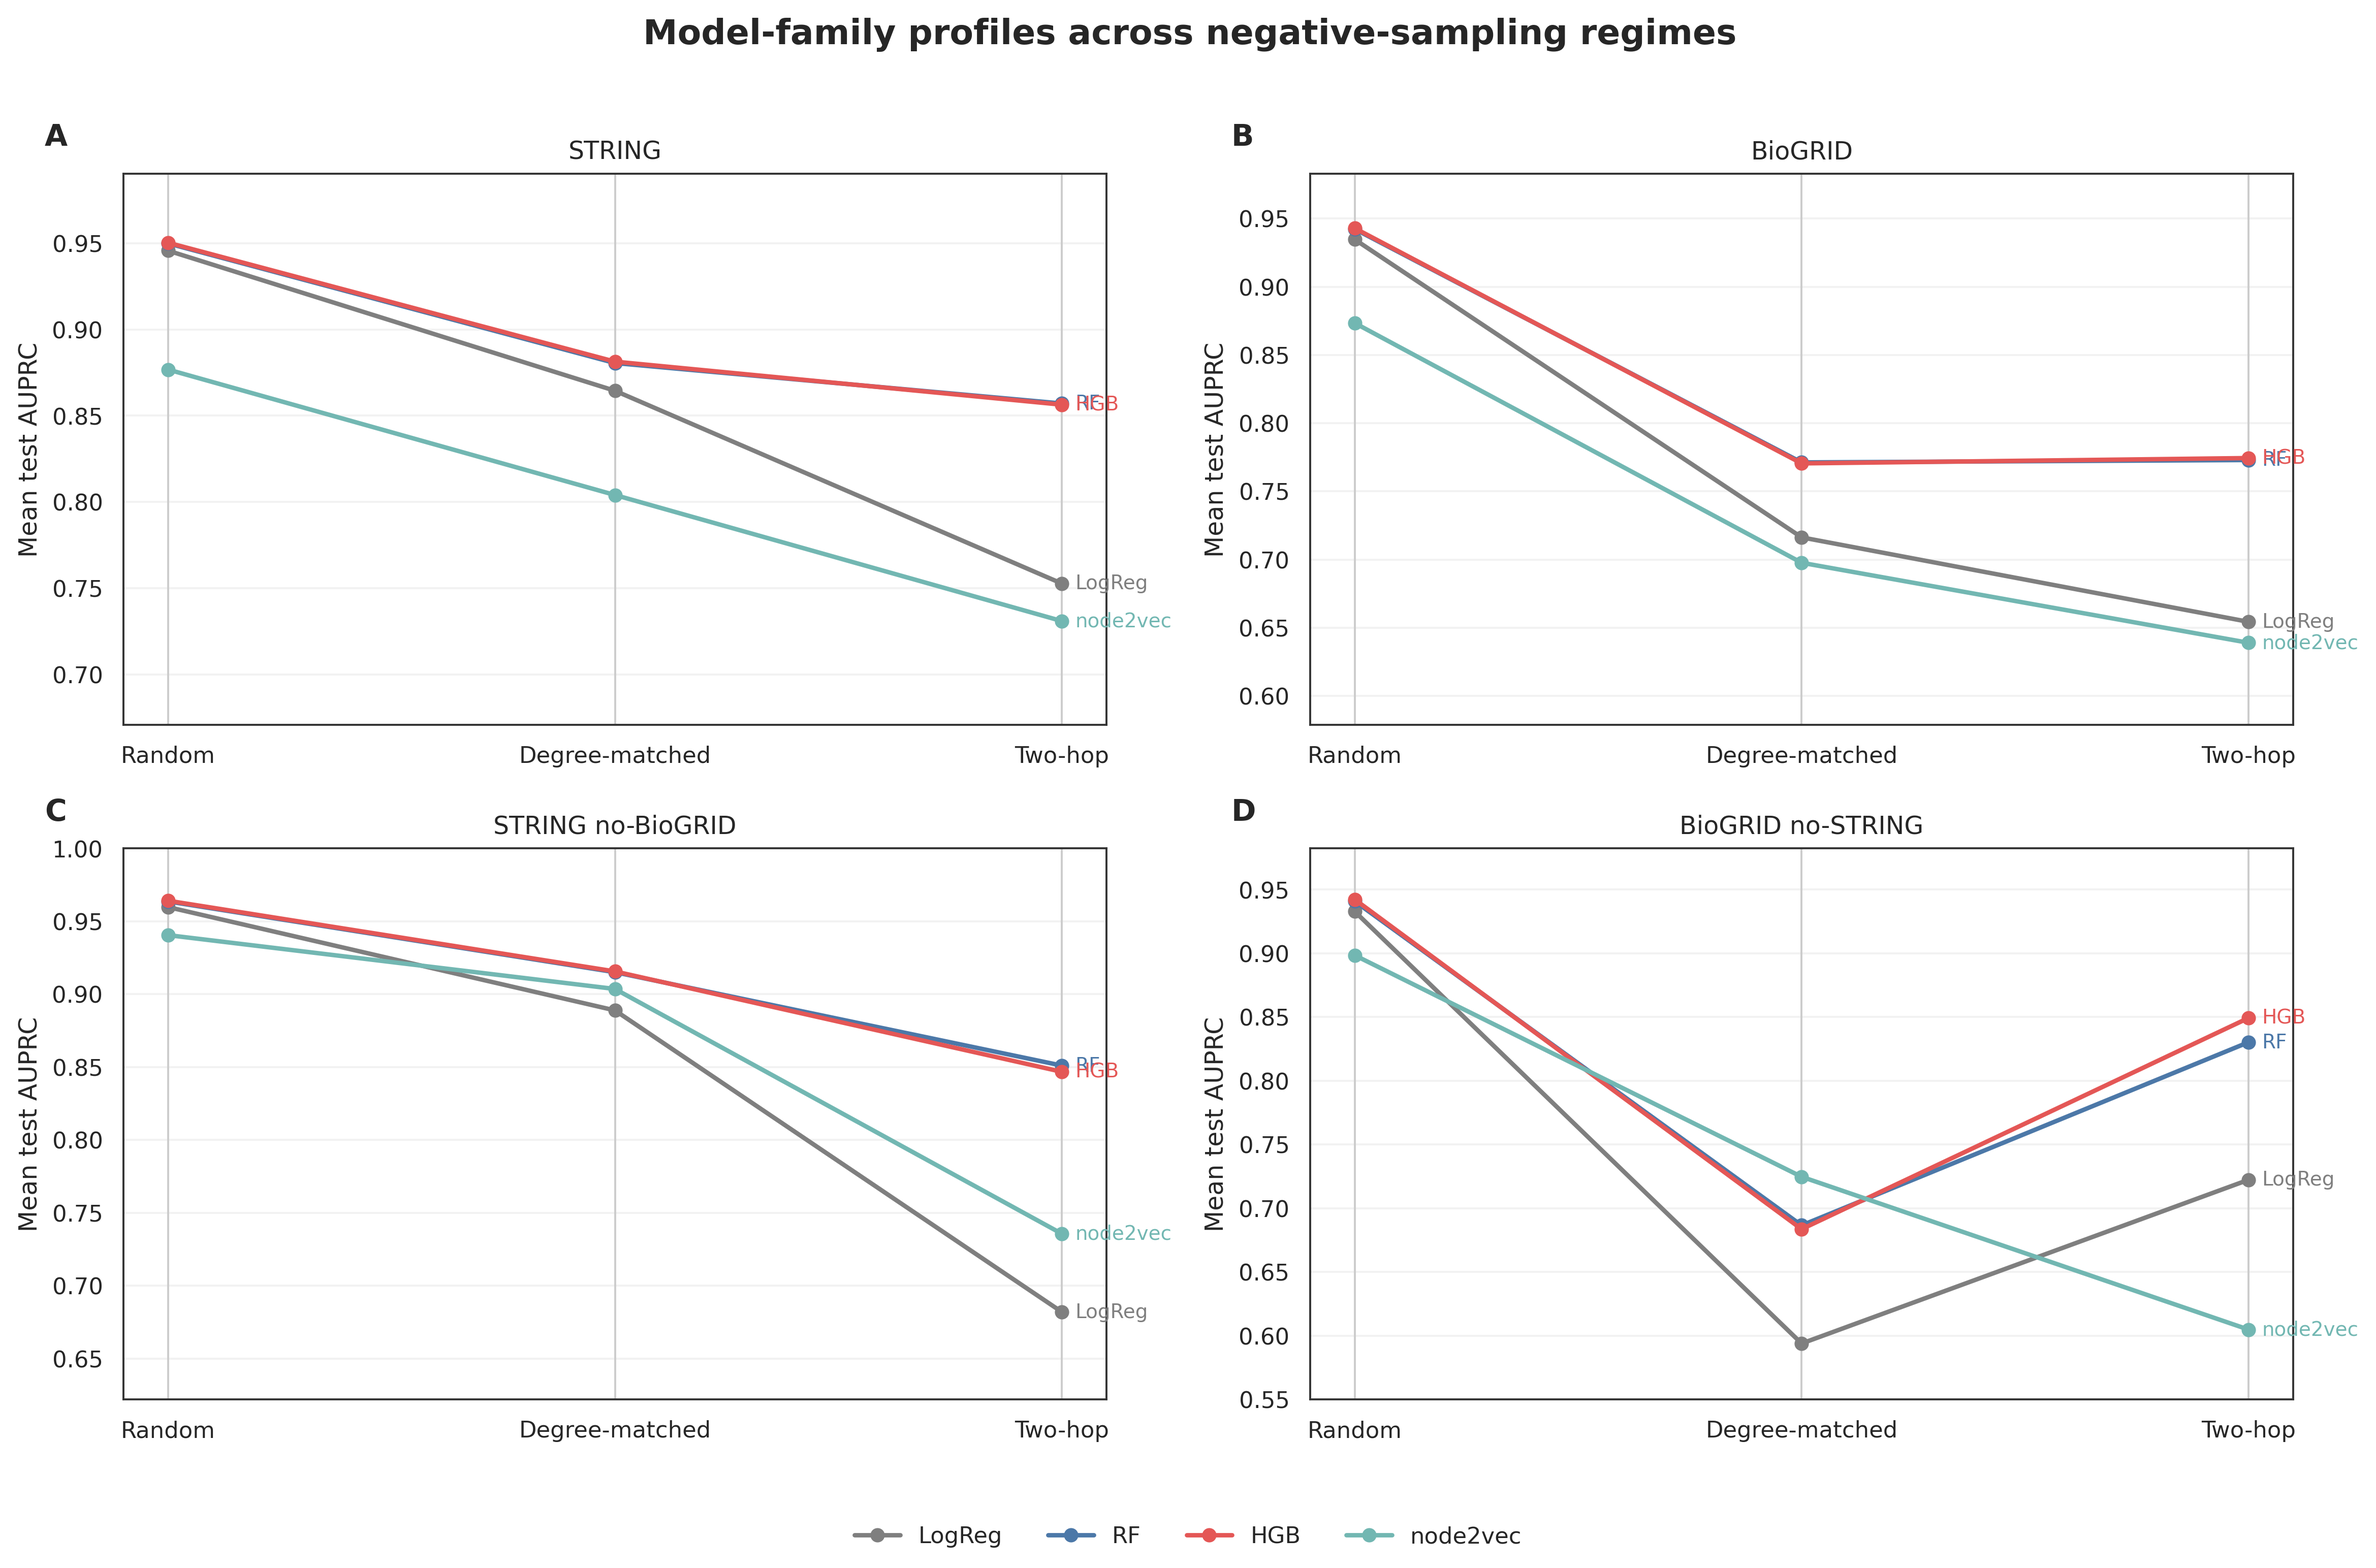
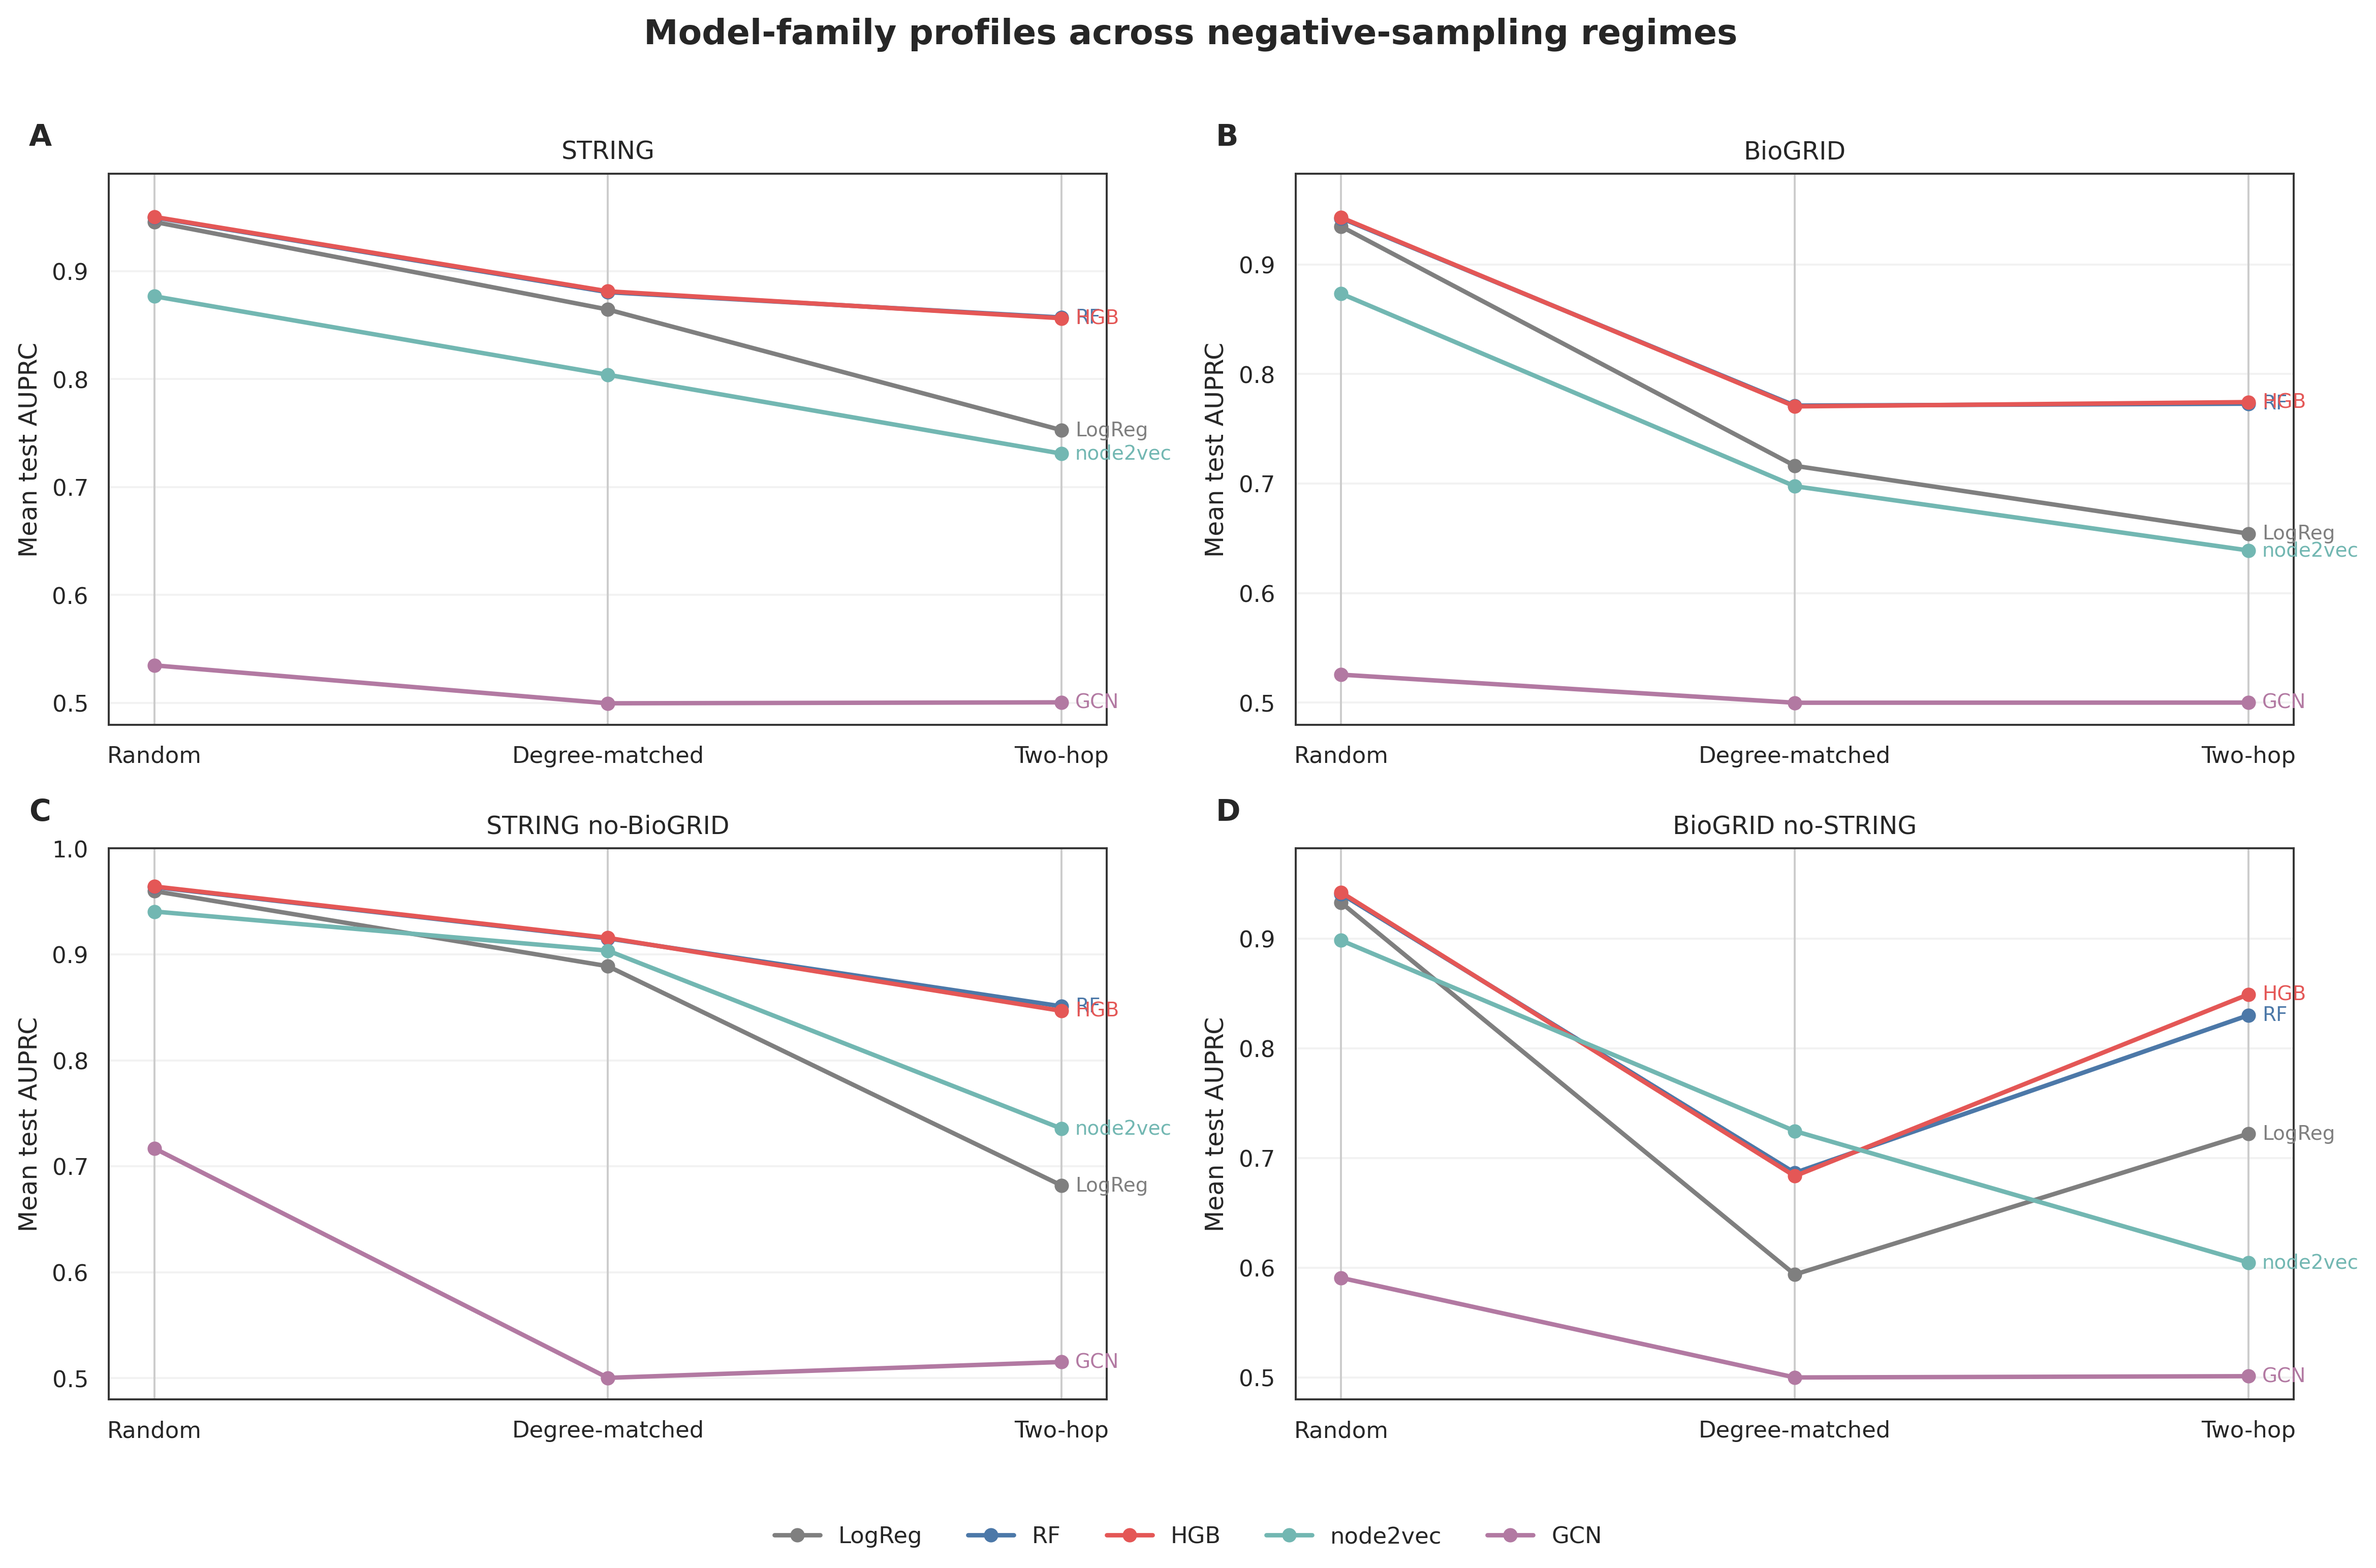
Integrate GCN into article figures

diff --git a/scripts/build_phase1_ppi_article_figures.py b/scripts/build_phase1_ppi_article_figures.py
@@ -19,6 +19,7 @@ TABLES_DIR = ARTICLE_DIR / "tables"
 
 CLASSICAL_PATH = RESULTS_DIR / "ppi_link_prediction_baselines.csv"
 NODE2VEC_PATH = RESULTS_DIR / "ppi_node2vec_link_prediction.csv"
+GCN_PATH = RESULTS_DIR / "ppi_gcn_link_prediction.csv"
 
 DATASET_LABELS = {
     "string_human_physical_v12": "STRING",
@@ -47,9 +48,10 @@ MODEL_LABELS = {
     "random_forest": "RF",
     "hist_gradient_boosting": "HGB",
     "node2vec_walk_logreg": "node2vec",
+    "gcn_dot": "GCN",
 }
 
-MODEL_ORDER = ["logistic_regression", "random_forest", "hist_gradient_boosting", "node2vec_walk_logreg"]
+MODEL_ORDER = ["logistic_regression", "random_forest", "hist_gradient_boosting", "node2vec_walk_logreg", "gcn_dot"]
 
 PALETTE = {
     "random": "#4C78A8",
@@ -59,13 +61,16 @@ PALETTE = {
     "random_forest": "#4C78A8",
     "hist_gradient_boosting": "#E45756",
     "node2vec_walk_logreg": "#72B7B2",
+    "gcn_dot": "#B279A2",
 }
 
 
 def read_results() -> pd.DataFrame:
     classical = pd.read_csv(CLASSICAL_PATH)
     node2vec = pd.read_csv(NODE2VEC_PATH)
+    gcn = pd.read_csv(GCN_PATH)
     node2vec = node2vec.assign(model_family="embedding")
+    gcn = gcn.assign(model_family="gnn")
     shared = [
         "dataset",
         "negative_strategy",
@@ -84,7 +89,7 @@ def read_results() -> pd.DataFrame:
         "num_eval",
     ]
     node2vec["train_seconds"] = node2vec["walk_seconds"] + node2vec["embedding_seconds"] + node2vec["decoder_seconds"]
-    data = pd.concat([classical[shared], node2vec[shared]], ignore_index=True)
+    data = pd.concat([classical[shared], node2vec[shared], gcn[shared]], ignore_index=True)
     data["dataset_label"] = data["dataset"].map(DATASET_LABELS)
     data["negative_label"] = data["negative_strategy"].map(NEGATIVE_LABELS)
     data["model_label"] = data["model"].map(MODEL_LABELS).fillna(data["model"])
@@ -126,6 +131,22 @@ def save_summary_tables(data: pd.DataFrame) -> None:
     )
     summary.to_csv(TABLES_DIR / "table_phase1_model_regime_auprc.csv", index=False)
 
+    wide = summary.pivot_table(
+        index=["dataset", "negative_strategy"],
+        columns="model",
+        values="mean",
+    ).reset_index()
+    wide = wide.rename(
+        columns={
+            "logistic_regression": "logistic_regression_auprc_mean",
+            "random_forest": "random_forest_auprc_mean",
+            "hist_gradient_boosting": "hist_gradient_boosting_auprc_mean",
+            "node2vec_walk_logreg": "node2vec_compatible_auprc_mean",
+            "gcn_dot": "gcn_auprc_mean",
+        }
+    )
+    wide.to_csv(ARTICLE_DIR / "phase1_ppi_model_family_comparison.csv", index=False)
+
     pivot = summary.pivot_table(
         index=["dataset", "dataset_label", "model", "model_label"],
         columns="negative_strategy",
@@ -138,7 +159,7 @@ def save_summary_tables(data: pd.DataFrame) -> None:
     md_lines = [
         "# Phase 1 Final Quantitative Tables",
         "",
-        "Table A reports test AUPRC mean, SD, and 95% CI across 10 seeds for each dataset, negative regime, and model family.",
+        "Table A reports test AUPRC mean, SD, and 95% CI across 10 seeds for each dataset, negative regime, and model family, including the two-layer GCN link-prediction baseline.",
         "",
         "Table B reports the AUPRC reduction from random negatives to degree-matched and two-hop negatives.",
         "",
@@ -295,10 +316,10 @@ def figure_model_ranking(data: pd.DataFrame) -> Path:
         ax.set_xlabel("")
         ax.set_ylabel("Mean test AUPRC")
         ax.grid(axis="y", alpha=0.25)
-        ax.set_ylim(max(0.55, local["auprc"].min() - 0.06), min(1.0, local["auprc"].max() + 0.04))
+        ax.set_ylim(max(0.48, local["auprc"].min() - 0.04), min(1.0, local["auprc"].max() + 0.04))
         annotate_panel(ax, label)
     handles, labels = axes[0].get_legend_handles_labels()
-    fig.legend(handles, labels, loc="lower center", ncol=4, frameon=False)
+    fig.legend(handles, labels, loc="lower center", ncol=5, frameon=False)
     fig.suptitle("Model-family profiles across negative-sampling regimes", y=1.01, fontsize=14, fontweight="bold")
     fig.tight_layout(rect=[0, 0.06, 1, 1])
     fig.savefig(path, dpi=350, bbox_inches="tight")
@@ -316,6 +337,7 @@ def figure_calibration_scalability(data: pd.DataFrame) -> Path:
         data=calibrated,
         x="model_label",
         y="ece_10",
+        order=[MODEL_LABELS[m] for m in MODEL_ORDER],
         hue="negative_label",
         hue_order=[NEGATIVE_LABELS[x] for x in NEGATIVE_ORDER],
         palette={NEGATIVE_LABELS[key]: value for key, value in PALETTE.items() if key in NEGATIVE_LABELS},

diff --git a/Articulo/tables/README.md b/Articulo/tables/README.md
@@ -1,6 +1,6 @@
 # Phase 1 Final Quantitative Tables
 
-Table A reports test AUPRC mean, SD, and 95% CI across 10 seeds for each dataset, negative regime, and model family.
+Table A reports test AUPRC mean, SD, and 95% CI across 10 seeds for each dataset, negative regime, and model family, including the two-layer GCN link-prediction baseline.
 
 Table B reports the AUPRC reduction from random negatives to degree-matched and two-hop negatives.
 
